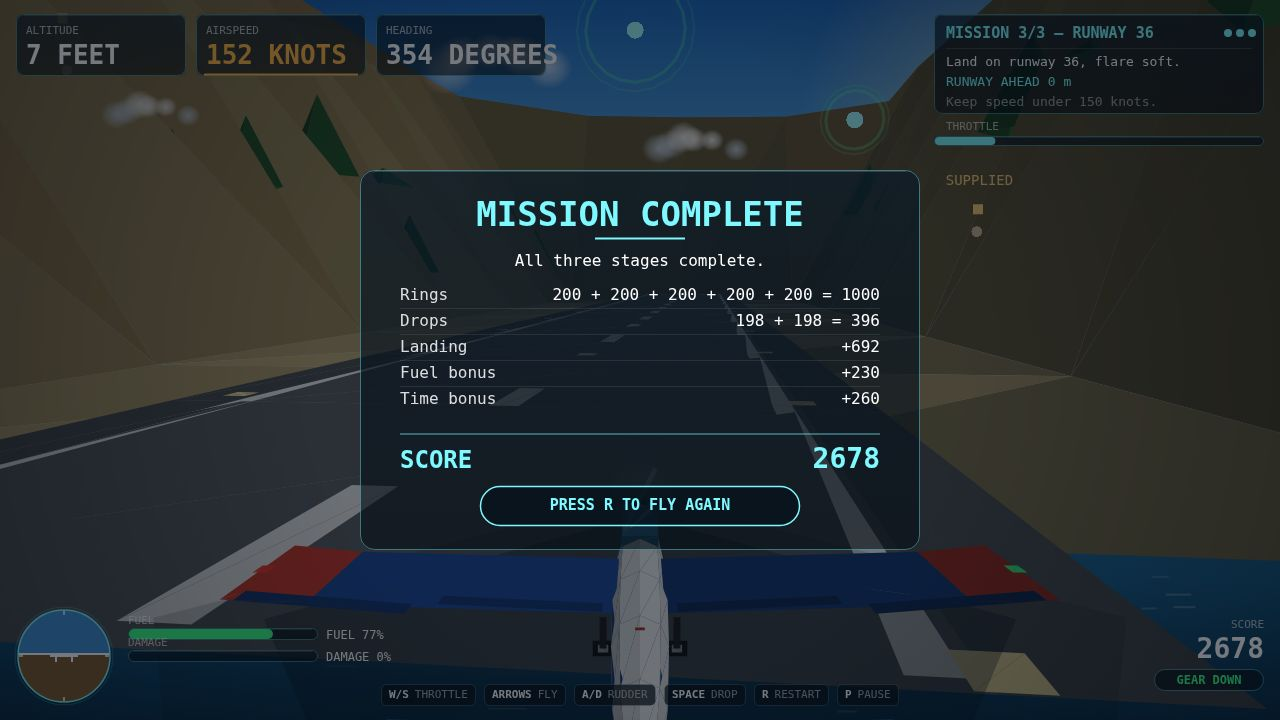
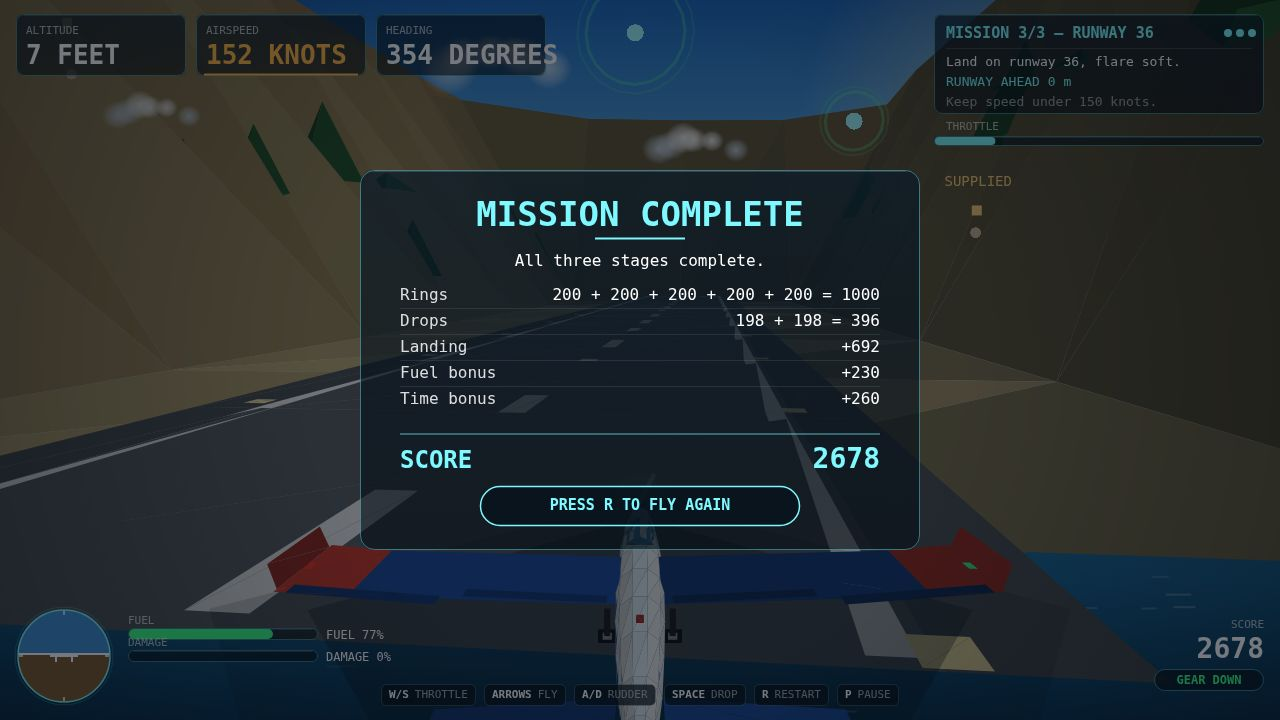
Aircraft round 5: sleeker 10-sided fuselage loft with smooth vertex shading, teardrop canopy, winglets, swept tail, camera 30m to 34m

diff --git a/game/src/plane3d.js b/game/src/plane3d.js
@@ -68,6 +68,23 @@ function pushQuad(out, xf, a, b, c, d, color) {
   pushTri(out, xf, a, c, d, color);
 }
 
+// Raw push: no lighting applied — the caller already shaded the color.
+function pushTriRaw(out, xf, a, b, c, color) {
+  out.push({ pts: [xf(a), xf(b), xf(c)], color });
+}
+
+// Smooth-shaded push: shade ONCE from the average of the three per-vertex
+// light factors. Must NOT go through pushTri (which would light a second
+// time and darken the fuselage twice over).
+function pushTriLit(out, xf, a, b, c, color, la, lb, lc) {
+  pushTriRaw(out, xf, a, b, c, shadeHex(color, (la + lb + lc) / 3));
+}
+
+function pushQuadLit(out, xf, a, b, c, d, color, la, lb, lc, ld) {
+  pushTriLit(out, xf, a, b, c, color, la, lb, lc);
+  pushTriLit(out, xf, a, c, d, color, la, lc, ld);
+}
+
 const COL_BELLY = "#1e4fa3";
 const COL_TOP = "#f2f5f7";
 const COL_NOSE = "#d23b2e";
@@ -79,6 +96,7 @@ const COL_HUB = "#9aa2ab";
 const COL_NAV_L = "#ff3b30";
 const COL_NAV_R = "#39ff88";
 const COL_PANEL = "#163a78";
+const COL_SPINE = "#eaf7ff";
 
 function jetValid(jet) {
   return jet &&
@@ -92,82 +110,135 @@ export function planeTris(jet) {
   const out = [];
   const xf = makeXform(jet);
 
-  // ---- FUSELAGE ----
+  // ---- FUSELAGE (10-station, 10-sided loft, smooth vertex-normal shading) ----
+  // 10 sides give a flat top edge (72-108 deg band) for the canopy to sit
+  // on and a much rounder rear silhouette than the old octagon; the light
+  // per ring vertex is the elliptical radial normal, averaged per triangle
+  // (same trick as the terrain's vertexLight), so the tube reads smooth.
   const stations = [
     [12, 0.55, 0.60],
-    [8, 0.95, 1.00],
-    [4, 1.15, 1.25],
-    [0, 1.15, 1.25],
-    [-4, 1.05, 1.15],
-    [-8, 0.85, 0.95],
-    [-11, 0.55, 0.70],
-    [-13, 0.30, 0.40]
+    [9, 0.92, 0.98],
+    [6, 1.10, 1.18],
+    [3, 1.16, 1.26],
+    [0, 1.15, 1.24],
+    [-3, 1.08, 1.16],
+    [-6, 0.95, 1.02],
+    [-9, 0.78, 0.84],
+    [-11, 0.58, 0.62],
+    [-13, 0.34, 0.38]
   ];
-  const rings = stations.map(([y, w, h]) => {
+  const N = 10;
+  const rings = [];
+  const ringLights = [];
+  for (let i = 0; i < stations.length; i++) {
+    const [y, w, h] = stations[i];
     const r = [];
-    for (let k = 0; k < 8; k++) {
-      const a = k * Math.PI / 4;
-      r.push([w * Math.cos(a), y, h * Math.sin(a)]);
+    const l = [];
+    for (let k = 0; k < N; k++) {
+      const a = k * 2 * Math.PI / N;
+      const ca = Math.cos(a), sa = Math.sin(a);
+      r.push([w * ca, y, h * sa]);
+      const n = norm([ca / w, 0, sa / h]);
+      const d = n[0] * SUN[0] + n[1] * SUN[1] + n[2] * SUN[2];
+      l.push(0.72 + 0.28 * Math.max(0, d));
     }
-    return r;
-  });
+    rings.push(r);
+    ringLights.push(l);
+  }
 
   // nose cone
   const noseTip = [0, 14, 0];
+  const noseLight = 0.72 + 0.28 * Math.max(0, SUN[1]);
   const r0 = rings[0];
-  for (let k = 0; k < 8; k++) {
-    const a = r0[k];
-    const b = r0[(k + 1) % 8];
-    pushTri(out, xf, noseTip, a, b, COL_NOSE);
+  const l0 = ringLights[0];
+  for (let k = 0; k < N; k++) {
+    const k2 = (k + 1) % N;
+    pushTriLit(out, xf, noseTip, r0[k], r0[k2], COL_NOSE, noseLight, l0[k], l0[k2]);
   }
 
-  // side quads
+  // side quads — the top band (k=2, 72-108 deg) is the bright spine stripe
   for (let i = 0; i < rings.length - 1; i++) {
     const ra = rings[i];
     const rb = rings[i + 1];
-    for (let k = 0; k < 8; k++) {
-      const k2 = (k + 1) % 8;
+    const la = ringLights[i];
+    const lb = ringLights[i + 1];
+    for (let k = 0; k < N; k++) {
+      const k2 = (k + 1) % N;
       const a = ra[k], b = ra[k2], c = rb[k2], d = rb[k];
       const mz = (a[2] + b[2] + c[2] + d[2]) / 4;
-      const col = mz < 0 ? COL_BELLY : COL_TOP;
-      pushQuad(out, xf, a, b, c, d, col);
+      let col;
+      if (k === 2) col = COL_SPINE;
+      else col = mz < 0 ? COL_BELLY : COL_TOP;
+      pushQuadLit(out, xf, a, b, c, d, col, la[k], la[k2], lb[k2], lb[k]);
     }
   }
 
   // tail cap
   const rl = rings[rings.length - 1];
+  const ll = ringLights[ringLights.length - 1];
   const tailCenter = [0, -13, 0];
-  for (let k = 0; k < 8; k++) {
-    const a = rl[k];
-    const b = rl[(k + 1) % 8];
-    pushTri(out, xf, tailCenter, b, a, COL_TOP);
+  const tailLight = 0.72 + 0.28 * Math.max(0, -SUN[1]);
+  for (let k = 0; k < N; k++) {
+    const k2 = (k + 1) % N;
+    pushTriLit(out, xf, tailCenter, rl[k2], rl[k], COL_TOP, tailLight, ll[k2], ll[k]);
   }
 
-  // ---- CANOPY ----
-  const cFrontY = 3.5, cMidY = 6.5, cBackY = 8.5;
-  const cW = 0.85;
-  const cFrontLo = 1.05, cFrontHi = 1.55, cMidHi = 2.05, cBackHi = 1.45;
-  const cFL = [-cW, cFrontY, cFrontLo], cFR = [cW, cFrontY, cFrontLo];
-  const cFHL = [-cW, cFrontY, cFrontHi], cFHR = [cW, cFrontY, cFrontHi];
-  const cML = [-cW, cMidY, cMidHi], cMR = [cW, cMidY, cMidHi];
-  const cBL = [-cW, cBackY, cBackHi], cBR = [cW, cBackY, cBackHi];
-  const cBLL = [-cW, cBackY, cFrontLo], cBRL = [cW, cBackY, cFrontLo];
-
-  // top: two quads
-  pushQuad(out, xf, cFHL, cFHR, cMR, cML, COL_GLASS);
-  pushQuad(out, xf, cML, cMR, cBR, cBL, COL_GLASS);
-  // front
-  pushQuad(out, xf, cFL, cFR, cFHR, cFHL, COL_GLASS);
-  // back
-  pushQuad(out, xf, cBLL, cBRL, cBR, cBL, COL_GLASS);
-  // left
-  pushQuad(out, xf, cFL, cFHL, cML, cBL, COL_GLASS);
-  // right
-  pushQuad(out, xf, cFR, cBR, cMR, cFHR, COL_GLASS);
-  // glint stripe
+  // ---- CANOPY (low teardrop half-loft, base sunk into the fuselage top) ----
+  const canopySections = [
+    [3.5, 0.72, 1.10, 1.55],
+    [6, 0.80, 1.05, 1.85],
+    [8.5, 0.40, 0.95, 1.45]
+  ];
+  const arcs = [];
+  const arcLights = [];
+  for (let i = 0; i < canopySections.length; i++) {
+    const [y, w, baseZ, topZ] = canopySections[i];
+    const midZ = (baseZ + topZ) / 2;
+    const pts = [
+      [-w, y, baseZ],
+      [-0.75 * w, y, midZ],
+      [0, y, topZ],
+      [0.75 * w, y, midZ],
+      [w, y, baseZ]
+    ];
+    const ctr = [0, y, baseZ];
+    const ls = [];
+    for (let p = 0; p < pts.length; p++) {
+      const v = [pts[p][0] - ctr[0], pts[p][1] - ctr[1], pts[p][2] - ctr[2]];
+      const n = norm(v);
+      const d = n[0] * SUN[0] + n[1] * SUN[1] + n[2] * SUN[2];
+      ls.push(0.72 + 0.28 * Math.max(0, d));
+    }
+    arcs.push(pts);
+    arcLights.push(ls);
+  }
+  for (let i = 0; i < arcs.length - 1; i++) {
+    const A = arcs[i], B = arcs[i + 1];
+    const LA = arcLights[i], LB = arcLights[i + 1];
+    for (let p = 0; p < 4; p++) {
+      pushQuadLit(out, xf, A[p], A[p + 1], B[p + 1], B[p], COL_GLASS,
+        LA[p], LA[p + 1], LB[p + 1], LB[p]);
+    }
+  }
+  // front cap (faces forward) and back cap (faces backward)
+  const frontCtr = [0, 3.5, 1.10];
+  const frontL = arcLights[0];
+  const frontCtrLight = 0.72 + 0.28 * Math.max(0, SUN[1]);
+  for (let p = 0; p < 4; p++) {
+    pushTriLit(out, xf, frontCtr, arcs[0][p], arcs[0][p + 1], COL_GLASS,
+      frontCtrLight, frontL[p], frontL[p + 1]);
+  }
+  const backCtr = [0, 8.5, 0.95];
+  const backL = arcLights[2];
+  const backCtrLight = 0.72 + 0.28 * Math.max(0, -SUN[1]);
+  for (let p = 0; p < 4; p++) {
+    pushTriLit(out, xf, backCtr, arcs[2][p + 1], arcs[2][p], COL_GLASS,
+      backCtrLight, backL[p + 1], backL[p]);
+  }
+  // glint streak on the canopy top
   pushQuad(out, xf,
-    [-0.5, 4.2, 1.70], [0.5, 4.2, 1.70],
-    [0.5, 7.0, 1.93], [-0.5, 7.0, 1.93], COL_GLINT);
+    [-0.45, 4.2, 1.70], [0.45, 4.2, 1.70],
+    [0.45, 7.0, 1.90], [-0.45, 7.0, 1.90], COL_GLINT);
 
   // ---- WINGS ----
   function wing(sign) {
@@ -194,6 +265,10 @@ export function planeTris(jet) {
     const fF2 = [s * 8, -0.7, 0.48];
     const fB2 = [s * 8, -1.5, 0.48];
     pushQuad(out, xf, fF, fF2, fB2, fB, COL_PANEL);
+    // winglet: small vertical fin at the tip, swept slightly back
+    pushQuad(out, xf,
+      [s * 16, 3.2, 1.1], [s * 16, -2.2, 1.1],
+      [s * 16, -2.9, 2.5], [s * 16, 2.2, 2.5], COL_NOSE);
   }
   wing(1);
   wing(-1);
@@ -206,22 +281,22 @@ export function planeTris(jet) {
     [15.6, 0.2, 1.1], [16.2, 0.2, 1.1],
     [16.2, 1.0, 1.1], [15.6, 1.0, 1.1], COL_NAV_R);
 
-  // ---- TAIL ----
+  // ---- TAIL (swept, tapered stabilizers) ----
   pushQuad(out, xf,
     [0.8, -9.5, 0.3], [0.8, -12.5, 0.3],
-    [7, -13, 0.9], [7, -10, 0.9], COL_BELLY);
+    [6.5, -13.0, 0.9], [6.5, -11.2, 0.9], COL_BELLY);
   pushQuad(out, xf,
-    [-0.8, -9.5, 0.3], [-7, -10, 0.9],
-    [-7, -13, 0.9], [-0.8, -12.5, 0.3], COL_BELLY);
+    [-0.8, -9.5, 0.3], [-0.8, -12.5, 0.3],
+    [-6.5, -13.0, 0.9], [-6.5, -11.2, 0.9], COL_BELLY);
 
   // fin
   pushQuad(out, xf,
     [0, -9.0, 0.5], [0, -12.8, 0.5],
-    [0, -12.2, 4.4], [0, -9.8, 4.4], COL_BELLY);
+    [0, -12.4, 4.2], [0, -10.8, 4.4], COL_BELLY);
   // fin tip
   pushQuad(out, xf,
-    [-0.12, -11.0, 4.0], [0.12, -11.0, 4.0],
-    [0.12, -12.0, 4.4], [-0.12, -12.0, 4.4], COL_NOSE);
+    [-0.12, -11.2, 4.0], [0.12, -11.2, 4.0],
+    [0.12, -12.2, 4.2], [-0.12, -12.2, 4.2], COL_NOSE);
 
   // ---- NOSE SPINNER ----
   const spinApex = [0, 15.2, 0];

diff --git a/game/src/gl3d.js b/game/src/gl3d.js
@@ -48,7 +48,10 @@ const rgbStr = (r, g, b) => `rgb(${r},${g},${b})`;
 
 // ---------- exported API ----------
 
-// Chase camera: behind (-30 fwd) and above (+10 up) the jet.
+// Chase camera: behind (-34 fwd) and above (+11 up) the jet — pulled back
+// slightly from -30/+10 so the sleeker aircraft sits a touch smaller and
+// more forward-balanced in frame. Render-only: nothing in the physics,
+// autopilot, or scoring reads the camera (see render.js smoothedCam).
 export const cameraFor = (jet) => {
   const j = jet && typeof jet === "object" ? jet : {};
   const jx = num(j.x), jy = num(j.y), jz = num(j.z);
@@ -71,9 +74,9 @@ export const cameraFor = (jet) => {
   if (!Number.isFinite(rx + ry + rz)) { rx = 1; ry = 0; rz = 0; }
   if (!Number.isFinite(ux + uy + uz)) { ux = 0; uy = 0; uz = 1; }
 
-  const ex = jx - fx * 30 + ux * 10;
-  const ey = jy - fy * 30 + uy * 10;
-  const ez = jz - fz * 30 + uz * 10;
+  const ex = jx - fx * 34 + ux * 11;
+  const ey = jy - fy * 34 + uy * 11;
+  const ez = jz - fz * 34 + uz * 11;
 
   return {
     ex, ey, ez,
